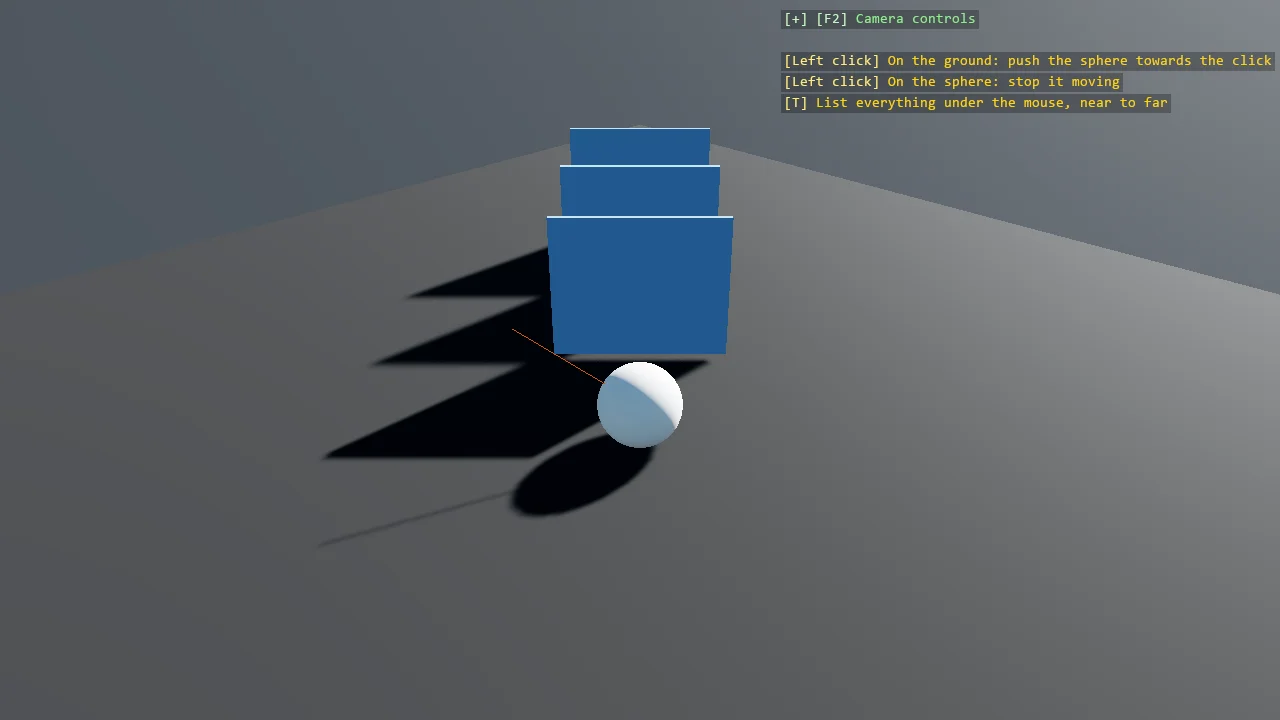
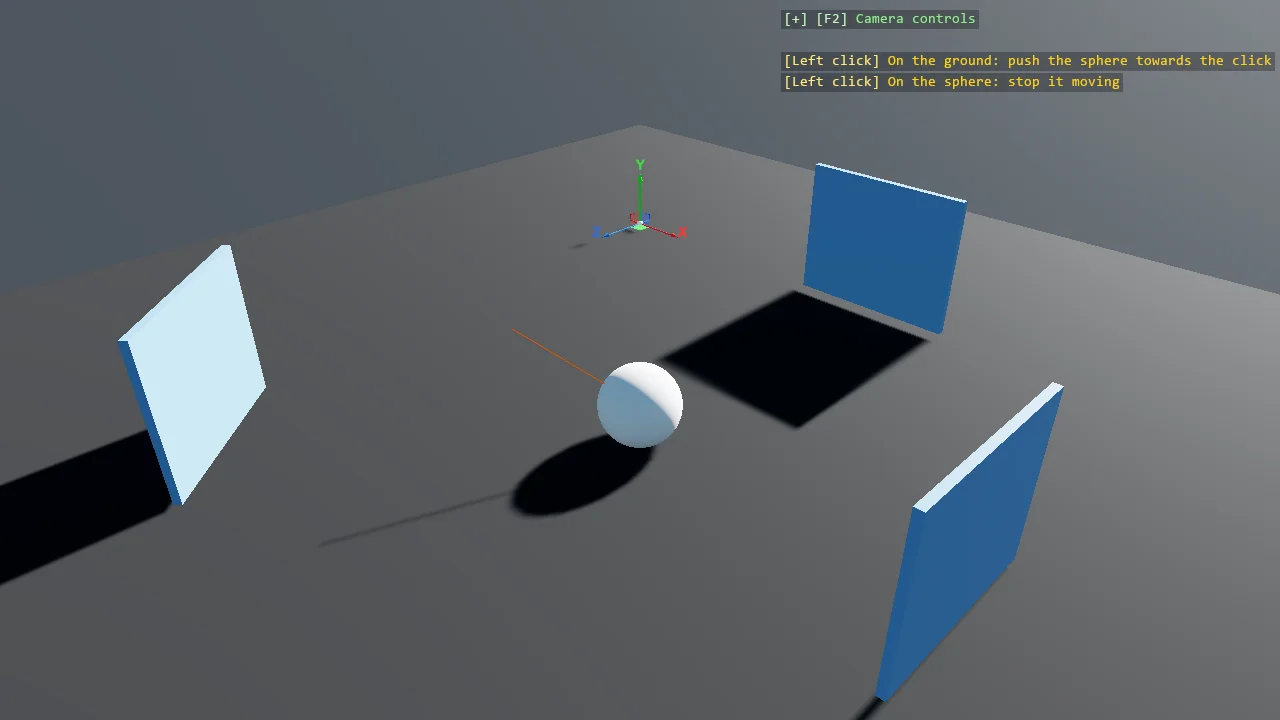
chore: Docs updated

diff --git a/docs/release-notes/index.md b/docs/release-notes/index.md
@@ -44,17 +44,18 @@ The Stride Community Toolkit is developed with rapid iteration in mind. It moves
 ### 📄 Docs
 
 - The glossary is in the top navigation, and defines gizmo, mesh collider, glyph and EM.
-- Physics extensions: a Shape queries section (`Overlap`, `OverlapInfo`, `SweepCast`, `SweepCastPenetrating`, what the distance means), and a Mesh colliders section, what a `MeshCollider` on a static keeps that a hull fills in, and what a mesh is not (a surface with no inside), measured in `E05_3D_MeshColliders`.
+- Physics extensions: a Triggers and contact events section (`Trigger`, `IContactHandler`, what the callbacks get and when they run), a Shape queries section (`Overlap`, `OverlapInfo`, `SweepCast`, `SweepCastPenetrating`, what the distance means), and a Mesh colliders section, what a `MeshCollider` on a static keeps that a hull fills in, and what a mesh is not (a surface with no inside), measured in `E05_3D_MeshColliders`.
 - A manual page for 3D text (`rendering/text-3d.md`); the MeshBuilder page points at it. A second page, `rendering/text-3d-pipeline.md`, walks the pipeline from the font file to the mesh, with the files behind each stage.
 
 ### 🎓 Examples
 
 - `E03_3D_TextShaders`: four materials on the same solid lettering, a gradient texture through the caps' texture coordinates, a rim light as a shader-class colour node, a vertex-stage wave on `Global.Time` and a pixel-stage dissolve driven per frame, each shader in the example's `Effects` folder.
-- `E03_3D_MeshText` is 3D text from a font: the embedded font, an installed font found by family, lines that align in one mesh, the frame counter, and words with physics through `Primitive3D.Text`, piled with a box per glyph. `E07_3D_ProceduralGeometry` and `E20_3D_CubeCollapse` use `TextMesh` for their lettering.
+- `E03_3D_MeshText` is 3D text from a font: the embedded font, an installed font found by family, lines that align in one mesh, the frame counter, and words with physics through `Primitive3D.Text`. `E07_3D_ProceduralGeometry` and `E20_3D_CubeCollapse` use `TextMesh` for their lettering.
 - `E05_3D_MeshColliders`: a convex hull against a mesh collider on the same ring model, with a ball resting on the hull's lid and falling through the mesh's hole; a mesh sphere with a ball outside and one inside shows that a mesh has no inside; a moving mesh ring lands on a mesh ring. The overlay prints where each dropped thing came to rest, measured, and P draws the colliders.
 - `E05_3D_ShapeQueries`: the two questions a raycast cannot answer. A probe box follows the mouse over a field of bodies and lists what it holds through `Overlap`, a click tosses them; a ball is swept from a launcher through `SweepCast`, a ghost marks the first touch, and T throws a real ball, without gravity, to land where the ghost was.
-- `E05_3D_Raycast`: T lists everything under the mouse, near to far, through `RayCastPenetrating`; three panels stand behind the sphere to be gone through.
-- `E03_3D_MeshText` drops its words into a pile again, with a box per glyph and the last eight kept; this did not reach #450.
+- `E05_3D_Raycast` casts two rays: the camera's finds the clicked point, and a second one from the sphere through that point lists everything in that direction through `RayCastPenetrating`, drawn as the line; panels stand around the sphere to be gone through.
+- `E05_3D_TriggerZones`: reacting to contact. A `Trigger` zone with no model counts who enters and leaves, a solid plate with an `IContactHandler` counts what stands on it, and a crate measures each hit with `ComputeImpactForce`. Space drops balls, the grabber carries them.
+- A sweep of the example comments: references to the helpers that `SceneSetup3D` replaced are corrected, comments that only restated the code and leftover commented-out code are gone, and the longest metadata descriptions are shorter.
 - A grabber in every Bepu example with bodies to pick up and a free left mouse button: `E01_2D_FallingShapes`, `E02_2D_Primitives`, `E04_2D_SpawnMenu`, `E05_2D_FallingShapes`, `E08_2D_DebugRender`, `E10_2D_StressPile`, `E01_3D_FallingShapes`, `E08_3D_CollidableGizmo` and `E08_3D_DebugRenderComponent`, one line each; the overlay says so where there is one.
 
 ### 🔧 Engineering

diff --git a/docs/manual/code-only/examples/index.md b/docs/manual/code-only/examples/index.md
@@ -317,7 +317,17 @@ Prefer a list? Each level has its own page, linked from the table of contents.
             <div class="card-body">
                 <h3 class="card-title h6"><a class="stretched-link text-decoration-none text-body" href="2d-scene-panels.md">2D Panels and Text</a></h3>
                 <p><span class="badge text-bg-secondary">Shapes</span></p>
-                <p class="card-text">Twenty-four HUD panel recipes side by side, each one property away from the last: fill only, border only, transparent fill over a stripe that proves...</p>
+                <p class="card-text">Twenty-four HUD panel recipes side by side, each one property away from the last: fills, borders, rounded corners, glows of three strengths, glass, a...</p>
+            </div>
+        </div>
+    </div>
+    <div class="col-xxl-4 col-md-6">
+        <div class="card h-100">
+            <img src="media/trigger-zones.webp" class="card-img-top" alt="Screenshot of the Trigger Zones example" width="1280" height="720" loading="lazy">
+            <div class="card-body">
+                <h3 class="card-title h6"><a class="stretched-link text-decoration-none text-body" href="trigger-zones.md">Trigger Zones</a></h3>
+                <p><span class="badge text-bg-secondary">Physics</span></p>
+                <p class="card-text">Reacting to contact, three ways.</p>
             </div>
         </div>
     </div>
@@ -462,7 +472,7 @@ Prefer a list? Each level has its own page, linked from the table of contents.
             <div class="card-body">
                 <h3 class="card-title h6"><a class="stretched-link text-decoration-none text-body" href="raycast.md">Raycast</a></h3>
                 <p><span class="badge text-bg-secondary">Physics</span></p>
-                <p class="card-text">Click the ground and a sphere is kicked towards where you clicked; click the sphere and it stops dead.</p>
+                <p class="card-text">Two raycasts with two jobs.</p>
             </div>
         </div>
     </div>
@@ -807,7 +817,7 @@ Prefer a list? Each level has its own page, linked from the table of contents.
             <div class="card-body">
                 <h3 class="card-title h6"><a class="stretched-link text-decoration-none text-body" href="instancing-entity-transform.md">Instancing with Entity Transforms</a></h3>
                 <p><span class="badge text-bg-secondary">Performance</span></p>
-                <p class="card-text">Keep every object a real entity - with a transform, a physics body and anything else you need - while still drawing the whole crowd in a single draw...</p>
+                <p class="card-text">Every object stays a real entity, with a transform and a physics body, while the whole crowd is drawn in one draw call: a master entity holds the...</p>
             </div>
         </div>
     </div>
@@ -957,7 +967,7 @@ Prefer a list? Each level has its own page, linked from the table of contents.
             <div class="card-body">
                 <h3 class="card-title h6"><a class="stretched-link text-decoration-none text-body" href="stride-signalr.md">Stride + SignalR - Orbital Cargo Deck</a></h3>
                 <p><span class="badge text-bg-secondary">Networking</span></p>
-                <p class="card-text">A Stride game and a Blazor web page as two consoles of the same orbital cargo deck, talking both ways over a SignalR hub.</p>
+                <p class="card-text">A Stride game and a Blazor page as two consoles of the same orbital cargo deck, talking both ways over a SignalR hub.</p>
             </div>
         </div>
     </div>

diff --git a/docs/manual/code-only/examples/advanced-examples.md b/docs/manual/code-only/examples/advanced-examples.md
@@ -12,7 +12,7 @@ Custom engine extension points, third-party integration and multi-project archit
 - [Root Renderer Shader](root-renderer-shader.md): An animated ribbon background drawn by a custom RootRenderFeature, which is the deepest extension point Stride offers short of writing your own compositor.
 - [Mesh Outline Render Feature](mesh-outline.md): Draw coloured outlines around 3D primitives with a custom RootRenderFeature.
 - [Image Processing (TextureCanvas)](image-processing.md): Every combination of anchor and stretch that TextureCanvas can apply, drawn as a grid of thumbnails so the options can be compared rather than read about.
-- [Instancing with Entity Transforms](instancing-entity-transform.md): Keep every object a real entity - with a transform, a physics body and anything else you need - while still drawing the whole crowd in a single draw call.
+- [Instancing with Entity Transforms](instancing-entity-transform.md): Every object stays a real entity, with a transform and a physics body, while the whole crowd is drawn in one draw call: a master entity holds the ModelComponent and an instancing type that reads its members' world matrices each frame.
 - [3D Text Shaders](text-shaders.md): Four materials on the same solid lettering, which is geometry like any other with normals and texture coordinates: a gradient texture read through the caps' coordinates, a rim light from a shader class of twenty lines as an emissive node, a wave that moves the vertices along the word on the engine's clock through a feature in the vertex stage, and a dissolve with a glowing edge through a feature in the pixel stage, its amount driven every frame.
 - [Basic 2D Scene (Stress Pile)](stress-pile-2d.md): Thousands of 2D physics bodies piling up, drawn in two instanced draw calls - awake bodies through one master, sleeping bodies tinted green through another - with the shape, batch size and spawn layout switchable while it runs.
 - [Basic 2D Scene (Stress Pile, Box2D)](stress-pile-2d-box2d.md): The Box2D twin of the stress pile: thousands of bodies piling up, drawn in two instanced draw calls - awake bodies through one master, sleeping bodies tinted green through another - with the shape, batch size and spawn layout switchable while it runs, simulated by Box2D.NET instead of Bepu.
@@ -27,7 +27,7 @@ Custom engine extension points, third-party integration and multi-project archit
 - [Stride UI - Draggable Window - Bullet Physics](stride-ui-draggable-window-bullet.md): The draggable window example running on the legacy Bullet physics engine.
 - [Compute Shader Boids](compute-boids.md): A flock of thousands of boids that lives entirely on the GPU.
 - [ImGui.NET Text Rendering](imgui-net.md): Render debug text with ImGui.NET, both in screen space and anchored to positions in the 3D scene.
-- [Stride + SignalR - Orbital Cargo Deck](stride-signalr.md): A Stride game and a Blazor web page as two consoles of the same orbital cargo deck, talking both ways over a SignalR hub.
+- [Stride + SignalR - Orbital Cargo Deck](stride-signalr.md): A Stride game and a Blazor page as two consoles of the same orbital cargo deck, talking both ways over a SignalR hub.
 - [Game - Cube Collapse](cube-collapse.md): A colour-match collapse puzzle built entirely from code.
 
 > [!NOTE]

diff --git a/docs/manual/code-only/examples/beginner-examples.md b/docs/manual/code-only/examples/beginner-examples.md
@@ -29,7 +29,8 @@ One new idea at a time, on top of the base scene. Toolkit helpers only, with no 
 - [Easing in a 2D Game](easing-2d-game.md): Easing doing real work in a 2D physics scene, each piece a Tween: a kinematic lift carries a stack of boxes up and down on a sine curve, coins pop in with an overshoot and fly to the score when collected, a "+10" rises and fades, and X shakes the camera on an elastic curve.
 - [World Text (In-Scene)](world-text.md): A gallery of everything WorldTextComponent can do, one setting per station: billboarding that stays upright, free billboarding, text fixed in place, text lying flat on the ground, world-unit sizing, depth-tested text hidden behind a wall next to text drawn through it, distance fading, and a glow behind the letters in a few colour combinations - a HUD blue, neon, a readability halo and a soft bloom.
 - [HUD Basics (Step by Step)](hud-basics.md): A simple HUD built in eight steps with ShapeBatch: a panel in a corner, a health bar, an energy dial, a crosshair, labels, a warning panel and a damage flash, and at the end the same HUD moved into files of its own.
-- [2D Panels and Text](2d-scene-panels.md): Twenty-four HUD panel recipes side by side, each one property away from the last: fill only, border only, transparent fill over a stripe that proves it, a fill colour of its own, rounded corners, heavy borders, glows of three strengths and colours, glass, a ship-console panel with corner ticks and a gauge, dashed rings and lines that turn and march, a gradient to the text colour, a gradient to nothing, a panel at a third opacity, a translucent border, an additive glow, a glow on a see-through panel, a hairline border, a twelve-sided badge, a forty-point dashed route, two see-through panels overlapping, and a concave bracket frame.
+- [2D Panels and Text](2d-scene-panels.md): Twenty-four HUD panel recipes side by side, each one property away from the last: fills, borders, rounded corners, glows of three strengths, glass, a ship-console panel with corner ticks and a gauge, dashed rings and lines that march, gradients, opacity, a translucent border, an additive glow, a hairline, a twelve-sided badge, a dashed route, overlapping see-through panels and a concave bracket.
+- [Trigger Zones](trigger-zones.md): Reacting to contact, three ways.
 - [Falling Shapes with Physics Options (2D)](falling-shapes-physics-2d.md): Thirty capsules and a rectangle dropped in a column, as in E01_2D_FallingShapes, with one thing added: each capsule is given its own Body2DComponent with a lower FrictionCoefficient, so the pile spreads wider than with the default.
 - [Box2D Explosion](box2d-explosion.md): A grenade in one call: Explode gives every shape within a radius an impulse away from the centre, per metre of perimeter facing the blast, so a wide slab flies harder than a ball of the same mass.
 - [Basic 2D Scene (Debug Rendering)](debug-render-2d.md): A pile of falling 2D shapes with the physics debug overlays turned on, so what the simulation is actually solving can be seen rather than inferred.

diff --git a/docs/manual/physics-extensions/index.md b/docs/manual/physics-extensions/index.md
@@ -61,6 +61,27 @@ if (simulation.SweepCast(new Sphere(0.35f), new RigidPose(start, Quaternion.Iden
 
 The shapes are Bepu's own (`BepuPhysics.Collidables.Box`, `Sphere`, `Capsule`, a convex hull), not the toolkit's colliders. `maxDistance` and `hit.Distance` are measured along the velocity: with a unit direction they are metres, with a real velocity they are seconds. A sweep is a straight line; gravity is not part of it. `E05_3D_ShapeQueries` shows both queries, and `E05_3D_Raycast` shows `RayCastPenetrating` listing every hit along a ray.
 
+### Triggers and contact events
+
+A collidable's `ContactEventHandler` is told about its contacts, and the handler decides whether the collidable is solid:
+
+- `Trigger` is the engine's ready-made handler for a sensor volume. Its `NoContactResponse` is true, so bodies pass through as if the collidable were not there, and `OnEnter` and `OnLeave` fire with the other collidable. A static with a `BoxCollider` and no model is a zone.
+- Your own `IContactHandler` returns `NoContactResponse` false for a solid that also wants to know: `OnStartedTouching`, `OnTouching` and `OnStoppedTouching` receive the `Contacts`, with `Other`, every contact's point, normal and depth, and `ComputeImpactForce(contact)` for how hard a first touch was.
+
+```csharp
+var trigger = new Trigger();
+
+trigger.OnEnter += (_, other) => Console.WriteLine($"{other.Entity.Name} came in");
+trigger.OnLeave += (_, other) => Console.WriteLine($"{other.Entity.Name} left");
+
+var zone = new Entity("Zone")
+{
+    new StaticComponent { Collider = new CompoundCollider { Colliders = { new BoxCollider { Size = new Vector3(3f, 2f, 3f) } } }, ContactEventHandler = trigger },
+};
+```
+
+The callbacks run on the main thread after the physics step, so they may change entities and materials. `OnTouching` does not fire for sleeping pairs. One body can touch through several contacts and several children of a compound, so keep a set of who touches, not a count. `E05_3D_TriggerZones` shows a zone, a solid plate that counts what stands on it, and a crate that measures its hits.
+
 ### Grabbing bodies
 
 - [`GrabberScript`](xref:Stride.CommunityToolkit.Bepu.GrabberScript) - `game.AddGrabber()` puts it on the camera entity, or add it there in Game Studio under Physics, and any dynamic body can be picked up with the mouse, carried on the end of the camera ray, and thrown. The wheel changes the carry distance; <kbd>T</kbd> plus mouse movement turns the held body. It works through a linear and an angular servo constraint rather than by moving the body, so the held body still collides and pushes, and its force caps scale with mass so heavy and light bodies drag alike. [`Grab()`](xref:Stride.CommunityToolkit.Bepu.GrabberScript.Grab(Stride.BepuPhysics.BodyComponent,Stride.Core.Mathematics.Vector3,System.Single)) and [`Release()`](xref:Stride.CommunityToolkit.Bepu.GrabberScript.Release) do the same from code.

diff --git a/docs/manual/code-only/examples/constraint-rope.md b/docs/manual/code-only/examples/constraint-rope.md
@@ -5,17 +5,13 @@ slug: constraint-rope
 
 # Rope - building a stable chain of constraints
 
-Bepu has no rope type, so a rope is a chain of small bodies tied together at runtime. Stringing
-them together is the easy part; keeping a heavy weight on a light chain from thrashing itself
-apart is the real problem, because the force holding that weight up has to travel link by link
-to the fixed anchor and the solver only gets so many passes per frame. Two ropes hang side by
-side carrying the same weight: the naive one anchors its constraints at the segment ends and ties
-each segment only to its neighbour, while the stable one anchors at the segment centres and adds
-skip constraints that let impulses take shortcuts along the chain. Z switches the stabilisation
-off while it hangs, the centre anchors and the skip constraints together, which shows
-immediately what it was holding together. Follows
-Bepu's own RopeStabilityDemo rather than the more obvious ball-socket construction, which is
-precisely the one that misbehaves.
+Bepu has no rope type, so a rope is a chain of small bodies tied together at runtime. Keeping a
+heavy weight on a light chain from thrashing itself apart is the real problem: the force holding
+the weight travels link by link to the anchor, and the solver gets only so many passes per frame.
+Two ropes carry the same weight: the naive one ties each segment to its neighbour at the segment
+ends, the stable one anchors at the centres and adds skip constraints that let impulses take
+shortcuts along the chain. Z switches the stabilisation off while it hangs. Follows Bepu's own
+RopeStabilityDemo rather than the obvious ball-socket construction, which is the one that misbehaves.
 
 The `Program.cs` file shows how to:
 
@@ -35,7 +31,7 @@ The `Program.cs` file shows how to:
 - Making the topmost segment kinematic to hold the chain up
 - Applying an impulse from the update loop rather than a velocity at build time
 - Picking up and throwing bodies with GrabberScript
-- Using helpers: SceneSetup3D, AddSkybox, AddProfiler
+- Using helpers: SceneSetup3D, UseSkybox
 
 ![Rope - building a stable chain of constraints](media/constraint-rope.webp)
 

diff --git a/docs/manual/code-only/examples/instancing-entity-transform.md b/docs/manual/code-only/examples/instancing-entity-transform.md
@@ -5,16 +5,14 @@ slug: instancing-entity-transform
 
 # Instancing with Entity Transforms
 
-Keep every object a real entity - with a transform, a physics body and anything else you need - while
-still drawing the whole crowd in a single draw call. A master entity holds a ModelComponent and an
-instancing type that reads its members' world matrices each frame, and the members carry no
-ModelComponent of their own. Bepu drives the transforms, so the bodies collide and pile up normally.
-Four kinds of body can be dropped side by side to compare: Stride's own InstancingEntityTransform,
-no instancing at all, the toolkit's BepuEntityInstancing, and BufferedEntityInstancing. The toolkit
-types stop working once Bepu puts the bodies to sleep, which takes a settled 20,000-cube pile from
-239 to 329 FPS, and the example also shows where the real ceiling lies, because instancing removes
-draw calls and does nothing about simulation cost. One line at the top switches the whole pile to
-any other primitive, so the same comparison can be run with spheres, cones or hulls.
+Every object stays a real entity, with a transform and a physics body, while the whole crowd is
+drawn in one draw call: a master entity holds the ModelComponent and an instancing type that reads
+its members' world matrices each frame. Bepu drives the transforms, so the bodies collide and pile
+up as usual. Four kinds of body drop side by side: Stride's InstancingEntityTransform, no instancing,
+the toolkit's BepuEntityInstancing and BufferedEntityInstancing. The toolkit types stop working once
+Bepu puts the bodies to sleep, which takes a settled 20,000-cube pile from 239 to 329 FPS; instancing
+removes draw calls and does nothing about simulation cost. One line switches the pile to another
+primitive.
 
 The `Program.cs` file shows how to:
 

diff --git a/docs/manual/code-only/examples/letters-3d.md b/docs/manual/code-only/examples/letters-3d.md
@@ -10,7 +10,7 @@ engine ships, triangulates them, holes and all, and extrudes them into meshes th
 shadowed like any other geometry. On show: the Open Sans embedded in the toolkit with a bevelled edge, an installed
 font found by family name, several lines that align in one mesh, a frame counter whose digits
 are rebuilt as a new mesh every frame, and words with physics through Primitive3D.Text, dropped
-into a pile with a box per glyph. The counter demonstrates the one rule of dynamic
+on the ground with one convex hull per glyph. The counter demonstrates the one rule of dynamic
 mesh text: dispose the old GPU buffers before swapping in the new mesh, or leak a buffer pair per
 rebuild.
 
@@ -18,7 +18,7 @@ The `Program.cs` file shows how to:
 
 - Solid 3D lettering from any font: TextMesh.CreateModel with MeshFont.Default, Load or FromFamily
 - TextMeshOptions - size per EM, depth, bevel, anchor, alignment, line spacing, curve quality
-- Words as primitives with bodies - Primitive3D.Text through CreatePrimitive, boxed per glyph for a pile
+- Words as primitives with bodies - Primitive3D.Text through CreatePrimitive, one convex hull per glyph
 - Static lettering built once versus text that changes, and releasing the old buffers
 - Using helpers: SceneSetup3D, AddAllDirectionLighting, CreatePrimitive, DebugOverlay
 
@@ -26,4 +26,4 @@ The `Program.cs` file shows how to:
 
 View on [GitHub](https://github.com/stride3d/stride-community-toolkit/tree/main/examples/code-only/E03_3D_MeshText).
 
-[!code-csharp[](../../../../examples/code-only/E03_3D_MeshText/Program.cs?start=1&end=177)]
+[!code-csharp[](../../../../examples/code-only/E03_3D_MeshText/Program.cs?start=1&end=138)]

diff --git a/docs/manual/code-only/examples/2d-scene-panels.md b/docs/manual/code-only/examples/2d-scene-panels.md
@@ -5,16 +5,12 @@ slug: 2d-scene-panels
 
 # 2D Panels and Text
 
-Twenty-four HUD panel recipes side by side, each one property away from the last: fill only,
-border only, transparent fill over a stripe that proves it, a fill colour of its own, rounded
-corners, heavy borders, glows of three strengths and colours, glass, a ship-console panel with
-corner ticks and a gauge, dashed rings and lines that turn and march, a gradient to the text
-colour, a gradient to nothing, a panel at a third opacity, a translucent border, an additive
-glow, a glow on a see-through panel, a hairline border, a twelve-sided badge, a forty-point
-dashed route, two see-through panels overlapping, and a concave bracket frame. Every panel
-appears twice - alone, and carrying world text that demonstrates height, font size, colour
-alpha, opacity, glow, alignment and system fonts in regular, bold, italic and monospace. Five
-themes switch live.
+Twenty-four HUD panel recipes side by side, each one property away from the last: fills, borders,
+rounded corners, glows of three strengths, glass, a ship-console panel with corner ticks and a
+gauge, dashed rings and lines that march, gradients, opacity, a translucent border, an additive
+glow, a hairline, a twelve-sided badge, a dashed route, overlapping see-through panels and a
+concave bracket. Every panel appears twice, alone and carrying world text that shows height,
+font size, colour alpha, opacity, glow, alignment and system fonts. Five themes switch live.
 
 The `Program.cs` file shows how to:
 

diff --git a/docs/manual/code-only/examples/trigger-zones.md b/docs/manual/code-only/examples/trigger-zones.md
@@ -1,0 +1,27 @@
+---
+generated: true
+slug: trigger-zones
+---
+
+# Trigger Zones
+
+Reacting to contact, three ways. A trigger zone is a static with no model whose handler says
+NoContactResponse: bodies pass through it and OnEnter and OnLeave say who came and went. A plate is a
+solid static with a handler of its own, counting what stands on it through OnStartedTouching and
+OnStoppedTouching. A crate is a dynamic body whose handler measures each hit from the contacts of
+the first touch. Space drops a ball over every station; the grabber carries bodies between them.
+
+The `Program.cs` file shows how to:
+
+- ContactEventHandler on a collidable, and NoContactResponse deciding whether it is solid
+- Trigger with OnEnter and OnLeave on a static with no model, drawn as a debug box
+- IContactHandler on a solid static, OnStartedTouching and OnStoppedTouching keeping a set of touchers
+- IContactHandler on a dynamic body, the impact force of a first touch from its contacts
+- Callbacks run on the main thread after the physics step, so they may change materials and entities
+- Using helpers: SceneSetup3D, CreatePrimitive, AddGrabber, AddDebugShapes, AddPhysicsDebug, DebugOverlay
+
+![Trigger Zones](media/trigger-zones.webp)
+
+View on [GitHub](https://github.com/stride3d/stride-community-toolkit/tree/main/examples/code-only/E05_3D_TriggerZones).
+
+[!code-csharp[](../../../../examples/code-only/E05_3D_TriggerZones/Program.cs?start=1&end=313)]

diff --git a/docs/manual/code-only/examples/intermediate-examples.md b/docs/manual/code-only/examples/intermediate-examples.md
@@ -16,7 +16,7 @@ A Stride subsystem used directly, or several concepts combined. These assume you
 - [Partial Torus Mesh](partial-torus-mesh.md): A torus defined parametrically from two angles - one around the tube, one around the ring - and cut short by limiting the second, which turns the same code into an arc, a horseshoe or a full ring without special cases.
 - [3D Text from a Font](letters-3d.md): Solid 3D text from a real font: TextMesh reads a font's glyph outlines through the FreeType the engine ships, triangulates them, holes and all, and extrudes them into meshes that are lit and shadowed like any other geometry.
 - [Give Me a Cube (SimulationUpdate)](simulation-update.md): Drive an entity from the physics clock instead of the render loop.
-- [Raycast](raycast.md): Click the ground and a sphere is kicked towards where you clicked; click the sphere and it stops dead.
+- [Raycast](raycast.md): Two raycasts with two jobs.
 - [Shape Queries](shape-queries.md): Two questions a raycast cannot answer: what is inside this volume right now, and what would this shape touch first if it moved that way.
 - [Ship HUD](hud.md): A cockpit HUD composed from the toolkit's shapes and world text, with one widget per file.
 - [Spatial Sound](spatial-sound.md): 3D positional audio for a runtime sound: a looping pad on an orb that circles a pillar, heard from the camera.

diff --git a/docs/manual/rendering/text-3d.md b/docs/manual/rendering/text-3d.md
@@ -146,13 +146,13 @@ Lettering that must be walked into or shot through its holes wants a `MeshCollid
 - Letters landing on letters are hull-against-hull pairs, and the Bepu build Stride 4.4 ships
   mishandles thin extruded hulls that overlap (reported upstream as bepuphysics2 issue 417; it can
   crash the narrow phase). A hull collider suits a word on its own; give a pile of letters a box per
-  glyph instead, from the glyph meshes' bounds, as `E03_3D_MeshText` and Cube Collapse do.
+  glyph instead, from the glyph meshes' bounds, as Cube Collapse does.
 - No right-to-left, no wrapping, no text on a path.
 
 ## Examples
 
 - [`E03_3D_MeshText`](../code-only/examples/letters-3d.md): the embedded font, an installed font, lines
-  that align, a frame counter, and words with physics piled on each other.
+  that align, a frame counter, and words with physics.
 - [`E03_3D_TextShaders`](../code-only/examples/text-shaders.md): four materials on the same lettering,
   a gradient through the texture coordinates, a rim light node, a vertex-stage wave and a pixel-stage
   dissolve, each a shader class in the example's `Effects` folder.
